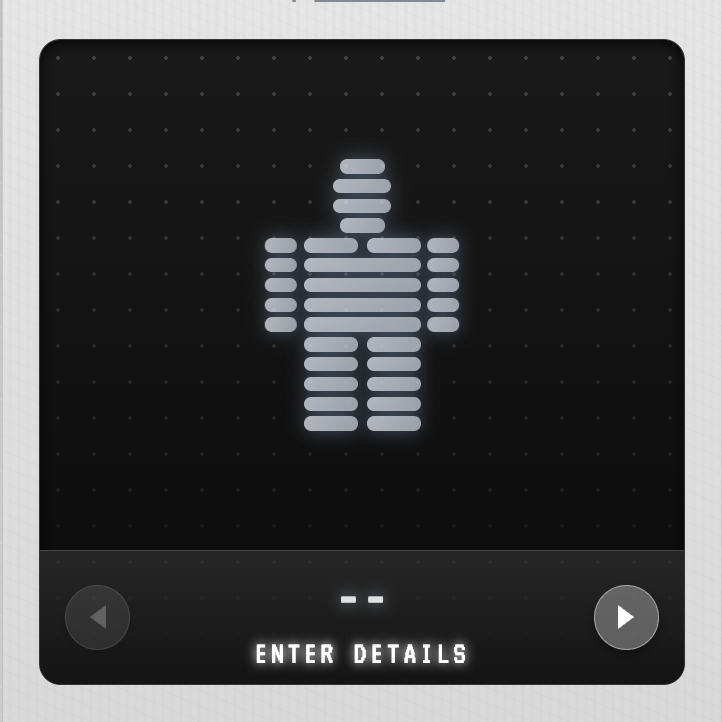
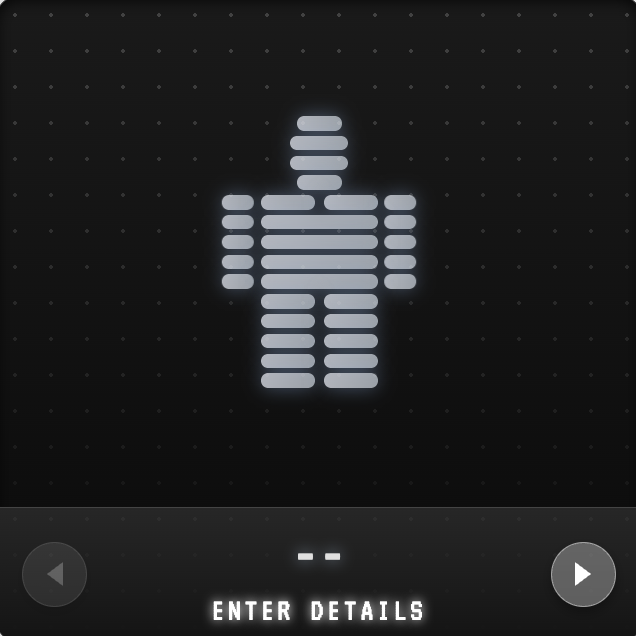
added back cover

diff --git a/index.html b/index.html
@@ -43,13 +43,14 @@
             font-family: 'VT323', 'Courier New', monospace;
             background: linear-gradient(135deg, #c0c0c0 0%, #e6f2ff 100%);
             min-height: 100vh;
-            height: 100vh;
             min-height: -webkit-fill-available;
             display: flex;
             flex-direction: column;
             align-items: center;
             justify-content: center;
             padding: 16px;
+            padding-top: max(16px, env(safe-area-inset-top));
+            padding-bottom: max(16px, env(safe-area-inset-bottom));
             position: relative;
             overflow-x: hidden;
             margin: 0;
@@ -59,7 +60,6 @@
         @supports (-webkit-touch-callout: none) {
             body {
                 min-height: -webkit-fill-available;
-                height: -webkit-fill-available;
             }
         }
 
@@ -102,6 +102,136 @@
             border: 1px solid rgba(0, 0, 0, 0.1);
             position: relative;
             z-index: 2;
+            transition: transform 1s cubic-bezier(0.4, 0, 0.2, 1);
+            transform-style: preserve-3d;
+        }
+        
+        .container.flipped {
+            transform: rotateY(180deg);
+        }
+        
+        .card-front,
+        .card-back {
+            backface-visibility: hidden;
+            -webkit-backface-visibility: hidden;
+            animation: fadeIn 0.3s ease-in;
+        }
+        
+        @keyframes fadeIn {
+            from {
+                opacity: 0;
+            }
+            to {
+                opacity: 1;
+            }
+        }
+        
+        .container.flipped .card-front {
+            animation: none;
+        }
+        
+        .container:not(.flipped) .card-front {
+            animation: fadeIn 0.4s ease-in 0.5s both;
+        }
+        
+        .card-back {
+            position: absolute;
+            top: 0;
+            left: 0;
+            width: 100%;
+            height: 100%;
+            transform: rotateY(180deg);
+            display: flex;
+            flex-direction: column;
+            justify-content: center;
+            align-items: center;
+            padding: 40px 30px;
+            box-sizing: border-box;
+        }
+        
+        .formula-title {
+            font-size: 28px;
+            color: #2c3e50;
+            margin-bottom: 40px;
+            letter-spacing: 2px;
+            cursor: pointer;
+            user-select: none;
+            -webkit-user-select: none;
+            transition: opacity 0.2s ease;
+        }
+        
+        .formula-title:hover {
+            opacity: 0.8;
+        }
+        
+        .formula-content {
+            background: rgba(255, 255, 255, 0.6);
+            padding: 24px;
+            border-radius: 12px;
+            border: 1px solid rgba(0, 0, 0, 0.1);
+            width: 100%;
+            max-width: 320px;
+        }
+        
+        .formula-description {
+            font-size: 15px;
+            color: #4a5568;
+            line-height: 1.6;
+            margin-bottom: 24px;
+            text-align: left;
+        }
+        
+        .formula-equation {
+            font-size: 18px;
+            color: #2c3e50;
+            text-align: center;
+            line-height: 1.6;
+        }
+        
+        .tap-hint {
+            font-size: 14px;
+            color: #6b7280;
+            margin-top: 24px;
+            text-align: center;
+            opacity: 0.7;
+            cursor: pointer;
+            text-decoration: underline;
+            user-select: none;
+            -webkit-user-select: none;
+            transition: opacity 0.2s ease;
+        }
+        
+        .tap-hint:hover {
+            opacity: 1;
+        }
+        
+        .bio-content-back {
+            background: rgba(255, 255, 255, 0.6);
+            padding: 20px 24px;
+            border-radius: 12px;
+            border: 1px solid rgba(0, 0, 0, 0.1);
+            width: 100%;
+            max-width: 320px;
+            margin-top: 16px;
+        }
+        
+        .bio-title-back {
+            font-family: 'VT323', 'Courier New', monospace;
+            font-size: 20px;
+            color: #2c3e50;
+            margin-bottom: 12px;
+            letter-spacing: 1px;
+        }
+        
+        .bio-text-back {
+            font-size: 14px;
+            color: #4a5568;
+            line-height: 1.6;
+            margin-bottom: 10px;
+        }
+        
+        .bio-text-back:last-child {
+            margin-bottom: 0;
         }
 
         h1 {
@@ -113,7 +243,14 @@
             margin-bottom: 8px;
             text-shadow: 0 1px 2px rgba(255, 255, 255, 0.8);
             position: relative;
-            cursor: default;
+            cursor: pointer;
+            user-select: none;
+            -webkit-user-select: none;
+            transition: opacity 0.2s ease;
+        }
+        
+        h1:hover {
+            opacity: 0.8;
         }
 
         h1:hover::after {
@@ -156,13 +293,16 @@
             opacity: 0.8;
         }
 
-        .subtitle span {
+        .subtitle span,
+        .subtitle a {
             text-decoration: underline;
             cursor: pointer;
             transition: opacity 0.2s ease;
+            color: inherit;
         }
 
-        .subtitle span:hover {
+        .subtitle span:hover,
+        .subtitle a:hover {
             opacity: 1;
         }
         
@@ -184,9 +324,10 @@
             transform: translateY(-10px);
             -webkit-transform: translateY(-10px);
             pointer-events: none;
-            transition: opacity 0.6s ease-out, transform 0.6s ease-out;
-            -webkit-transition: opacity 0.6s ease-out, -webkit-transform 0.6s ease-out;
+            transition: opacity 0.6s ease-out, transform 1s cubic-bezier(0.4, 0, 0.2, 1);
+            -webkit-transition: opacity 0.6s ease-out, -webkit-transform 1s cubic-bezier(0.4, 0, 0.2, 1);
             will-change: opacity, transform;
+            transform-style: preserve-3d;
         }
         
         .share-bar.visible {
@@ -194,6 +335,13 @@
             transform: translateY(0);
             -webkit-transform: translateY(0);
             pointer-events: all;
+        }
+        
+        .container.flipped ~ .share-bar.visible {
+            transform: translateY(0) rotateY(180deg);
+            -webkit-transform: translateY(0) rotateY(180deg);
+            opacity: 0;
+            pointer-events: none;
         }
         
         .share-bar a {
@@ -1321,6 +1469,18 @@
             border-color: #5a9fd4;
             box-shadow: inset 0 2px 4px rgba(0, 0, 0, 0.1), 0 0 0 3px rgba(90, 159, 212, 0.2);
         }
+        
+        /* Hide number input arrows */
+        input[type="number"]::-webkit-inner-spin-button,
+        input[type="number"]::-webkit-outer-spin-button {
+            -webkit-appearance: none;
+            margin: 0;
+        }
+        
+        input[type="number"] {
+            -moz-appearance: textfield;
+            appearance: textfield;
+        }
 
         input:disabled {
             opacity: 0.5;
@@ -1525,6 +1685,17 @@
         
         /* Better touch targets on all mobile devices */
         @media (max-width: 480px) {
+            body {
+                justify-content: flex-start;
+                padding-top: 24px;
+                min-height: 100vh;
+                height: auto;
+            }
+            
+            .container {
+                margin-top: 0;
+            }
+            
             .carousel-nav {
                 width: 44px;
                 height: 44px;
@@ -1553,9 +1724,10 @@
     </style>
 </head>
 <body>
-    <div class="container">
-        <h1>BMI Calculator</h1>
-        <p class="subtitle">by <span id="authorName">GhulamRusli</span></p>
+    <div class="container" id="mainCard">
+        <div class="card-front">
+        <h1 id="cardTitle">BMI Calculator</h1>
+        <p class="subtitle">by <a href="https://instagram.com/ghulamrusli" target="_blank" rel="noopener noreferrer" id="authorName">GhulamRusli</a></p>
         
         <div class="xray-preview">
             <div class="rain-container" id="rainContainer"></div>
@@ -1657,17 +1829,17 @@
         <div class="input-row">
             <div class="input-col">
                 <label for="age">Age (years)</label>
-                <input type="number" id="age" placeholder="25" min="1" max="120" step="1" inputmode="numeric">
+                <input type="number" id="age" placeholder="25" min="1" max="120" step="1" inputmode="numeric" maxlength="3">
             </div>
             
             <div class="input-col">
                 <label for="height">Height (cm)</label>
-                <input type="number" id="height" placeholder="170" min="0" step="1" inputmode="decimal">
+                <input type="number" id="height" placeholder="170" min="0" step="1" inputmode="decimal" maxlength="3">
             </div>
             
             <div class="input-col">
                 <label for="weight">Weight (kg)</label>
-                <input type="number" id="weight" placeholder="70" min="0" step="1" inputmode="decimal">
+                <input type="number" id="weight" placeholder="70" min="0" step="1" inputmode="decimal" maxlength="3">
             </div>
         </div>
 
@@ -1682,6 +1854,38 @@
         <div class="game-controls" id="gameControls">
             <button class="control-btn" id="leftBtn">◀</button>
             <button class="control-btn" id="rightBtn">▶</button>
+        </div>
+        </div>
+        
+        <!-- Card Back - BMI Formula -->
+        <div class="card-back">
+            <h2 class="formula-title" id="formulaTitle">BMI Formula</h2>
+            <div class="formula-content">
+                <div class="formula-description">
+                    The Body Mass Index (BMI) formula calculates a person's body fat percentage based on height and weight, expressed as kg/m².
+                </div>
+                
+                <div class="formula-equation">
+                    <div style="display: flex; align-items: center; justify-content: center; gap: 12px;">
+                        <span>BMI =</span>
+                        <div style="text-align: center; line-height: 1.6;">
+                            <div>Weight (kg)</div>
+                            <div style="border-top: 2px solid #2c3e50; margin: 6px 0;"></div>
+                            <div>Height (m) × Height (m)</div>
+                        </div>
+                    </div>
+                </div>
+            </div>
+            
+            <!-- About Section -->
+            <div class="bio-content-back">
+                <h3 class="bio-title-back">About @ghulamrusli</h3>
+                <p class="bio-text-back">This is a designer's attempt to create a project entirely using Claude.</p>
+            </div>
+            
+            <div class="tap-hint" id="flipBackBtn">
+                Flip back
+            </div>
         </div>
     </div>
     
@@ -1751,6 +1955,10 @@
         const bioClose = document.getElementById('bioClose');
         const shareBar = document.getElementById('shareBar');
         const shareLink = document.getElementById('shareLink');
+        const mainCard = document.getElementById('mainCard');
+        const cardTitle = document.getElementById('cardTitle');
+        const formulaTitle = document.getElementById('formulaTitle');
+        const flipBackBtn = document.getElementById('flipBackBtn');
 
         // BMI State
         let currentSlide = 0;
@@ -2130,6 +2338,18 @@
         ageInput.addEventListener('input', updateButtonState);
         heightInput.addEventListener('input', updateButtonState);
         weightInput.addEventListener('input', updateButtonState);
+        
+        // Limit input to 3 digits
+        function limitInput(input) {
+            if (input.value.length > 3) {
+                input.value = input.value.slice(0, 3);
+            }
+        }
+        
+        ageInput.addEventListener('input', () => limitInput(ageInput));
+        heightInput.addEventListener('input', () => limitInput(heightInput));
+        weightInput.addEventListener('input', () => limitInput(weightInput));
+        
         ageInput.addEventListener('keypress', (e) => {
             if (e.key === 'Enter') calculateBMI();
         });
@@ -2600,8 +2820,17 @@
             }
         });
 
-        authorName.addEventListener('click', () => {
-            bioModal.classList.add('active');
+        // Card flip functionality
+        cardTitle.addEventListener('click', () => {
+            mainCard.classList.toggle('flipped');
+        });
+        
+        formulaTitle.addEventListener('click', () => {
+            mainCard.classList.toggle('flipped');
+        });
+        
+        flipBackBtn.addEventListener('click', () => {
+            mainCard.classList.toggle('flipped');
         });
 
         bioClose.addEventListener('click', () => {
